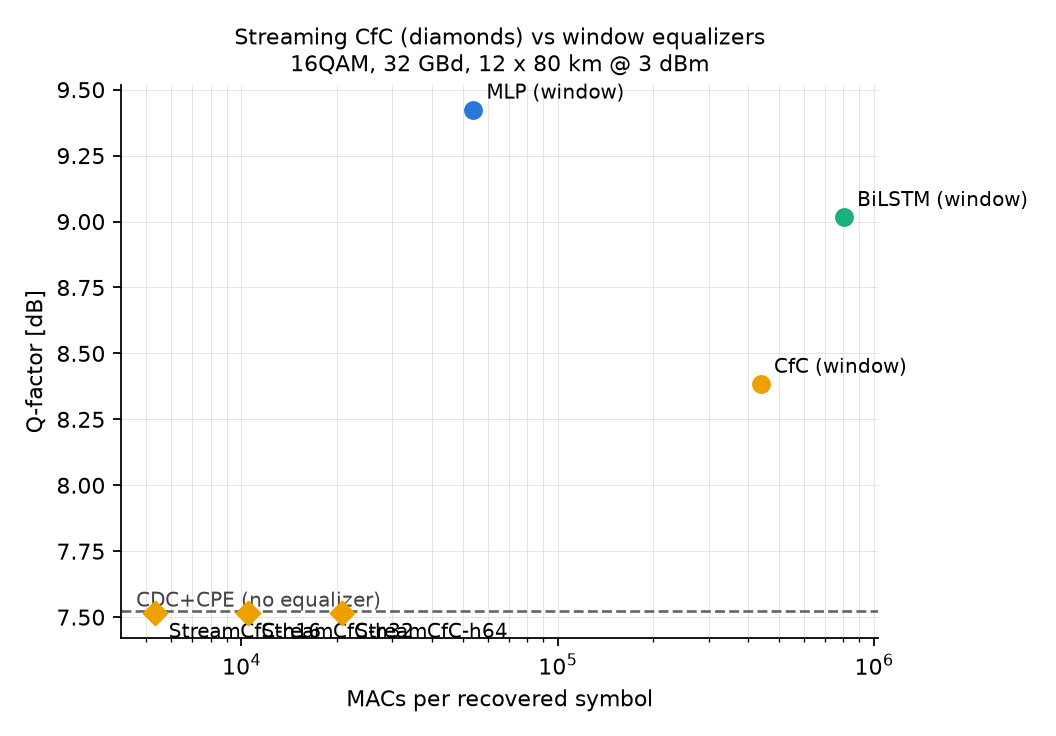
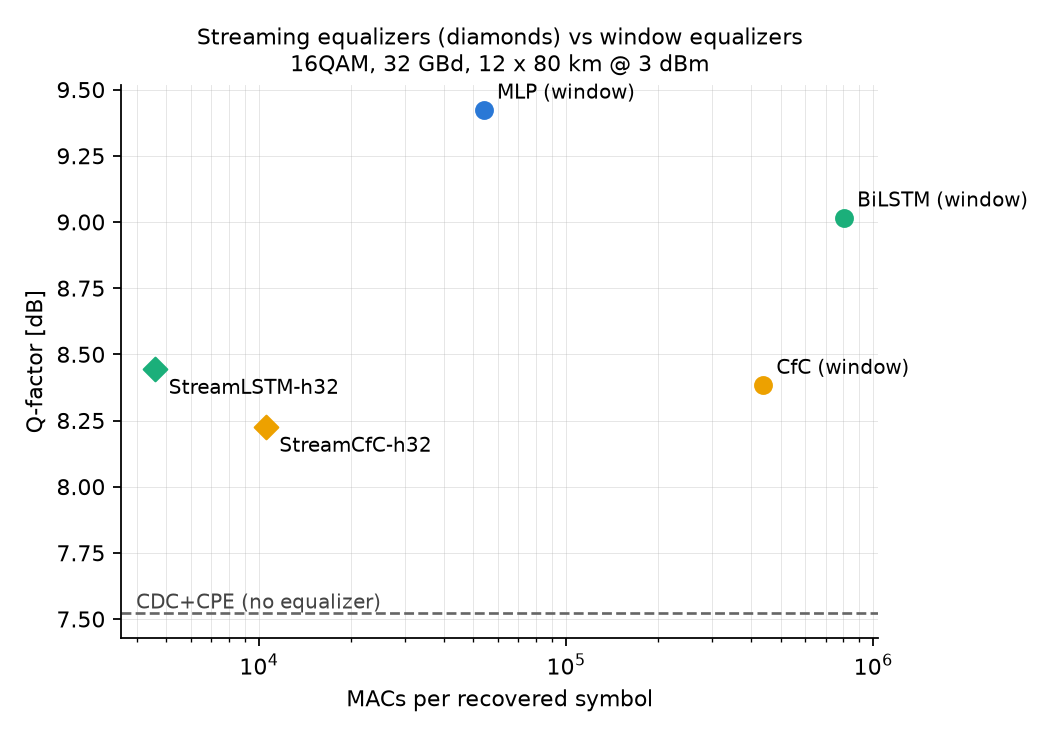
Streaming results: O(1)/symbol equalizers work -- 95x fewer MACs at window-CfC quality
StreamLSTM-h32 Q 8.44 @ 4.6k MACs/sym, StreamCfC-h32 Q 8.22 @ 10.6k, both
+0.7-0.9 dB over baseline with 8-symbol latency. First full benchmark cycle
complete; thesis scorecard added to RESEARCH_LOG.

diff --git a/docs/RESEARCH_LOG.md b/docs/RESEARCH_LOG.md
@@ -205,3 +205,33 @@ identity (Q 7.51 vs baseline 7.52). Probes since:
 Until streaming numbers land, the honest complexity story compares window
 models only; streaming MAC numbers are stated as potential, never with a Q
 attached.
+
+**Results (200 epochs, full data; figure docs/figures/streaming_frontier.png):**
+
+| model | BER | Q [dB] | MACs/sym | delay |
+|-------|-----|--------|----------|-------|
+| CDC+CPE | 8.72e-03 | 7.52 | 0 | - |
+| StreamLSTM-h32 | 4.10e-03 | 8.44 | 4,608 | 8 sym |
+| StreamCfC-h32 | 4.97e-03 | 8.22 | 10,560 | 8 sym |
+| (window CfC)   | 4.33e-03 | 8.38 | 438k | offline |
+| (window MLP)   | 1.54e-03 | 9.42 | 54k | offline |
+
+- **The O(1)-per-symbol regime works**: a streaming equalizer with 8 symbols of
+  decision latency recovers most of the window CfC's gain at **~95x fewer MACs**
+  (StreamLSTM 4.6k vs window CfC 438k, equal Q within 0.06 dB).
+- Within streaming, the discrete LSTM cell currently edges the CfC cell
+  (Q 8.44 vs 8.22) at 2.3x fewer MACs -- the CfC's backbone is its cost. A
+  leaner CfC (no backbone) and longer budgets remain unprobed in streaming.
+- Both streaming losses were still falling at epoch 200.
+
+## Where the thesis stands after the first full benchmark cycle
+
+Supported: learned equalizers give up to +2.2 dB Q across the nonlinear regime;
+streaming models make real-time complexity plausible (~5-10k MACs/symbol at
++0.7-0.9 dB gain). Not yet supported: a regime where the CfC *dominates* --
+the window MLP wins offline accuracy, the streaming LSTM edges the streaming
+CfC, and frozen-drift robustness favours the BiLSTM. Open threads, in order:
+CfC training stability across powers, tail-aware losses (the MSE/BER
+divergence), leaner streaming CfC, dual-polarization + PMD drift (a channel
+that *actually* varies in time, where the liquid-network hypothesis gets its
+fair test -- static drift here may simply not be the setting it pays off in).